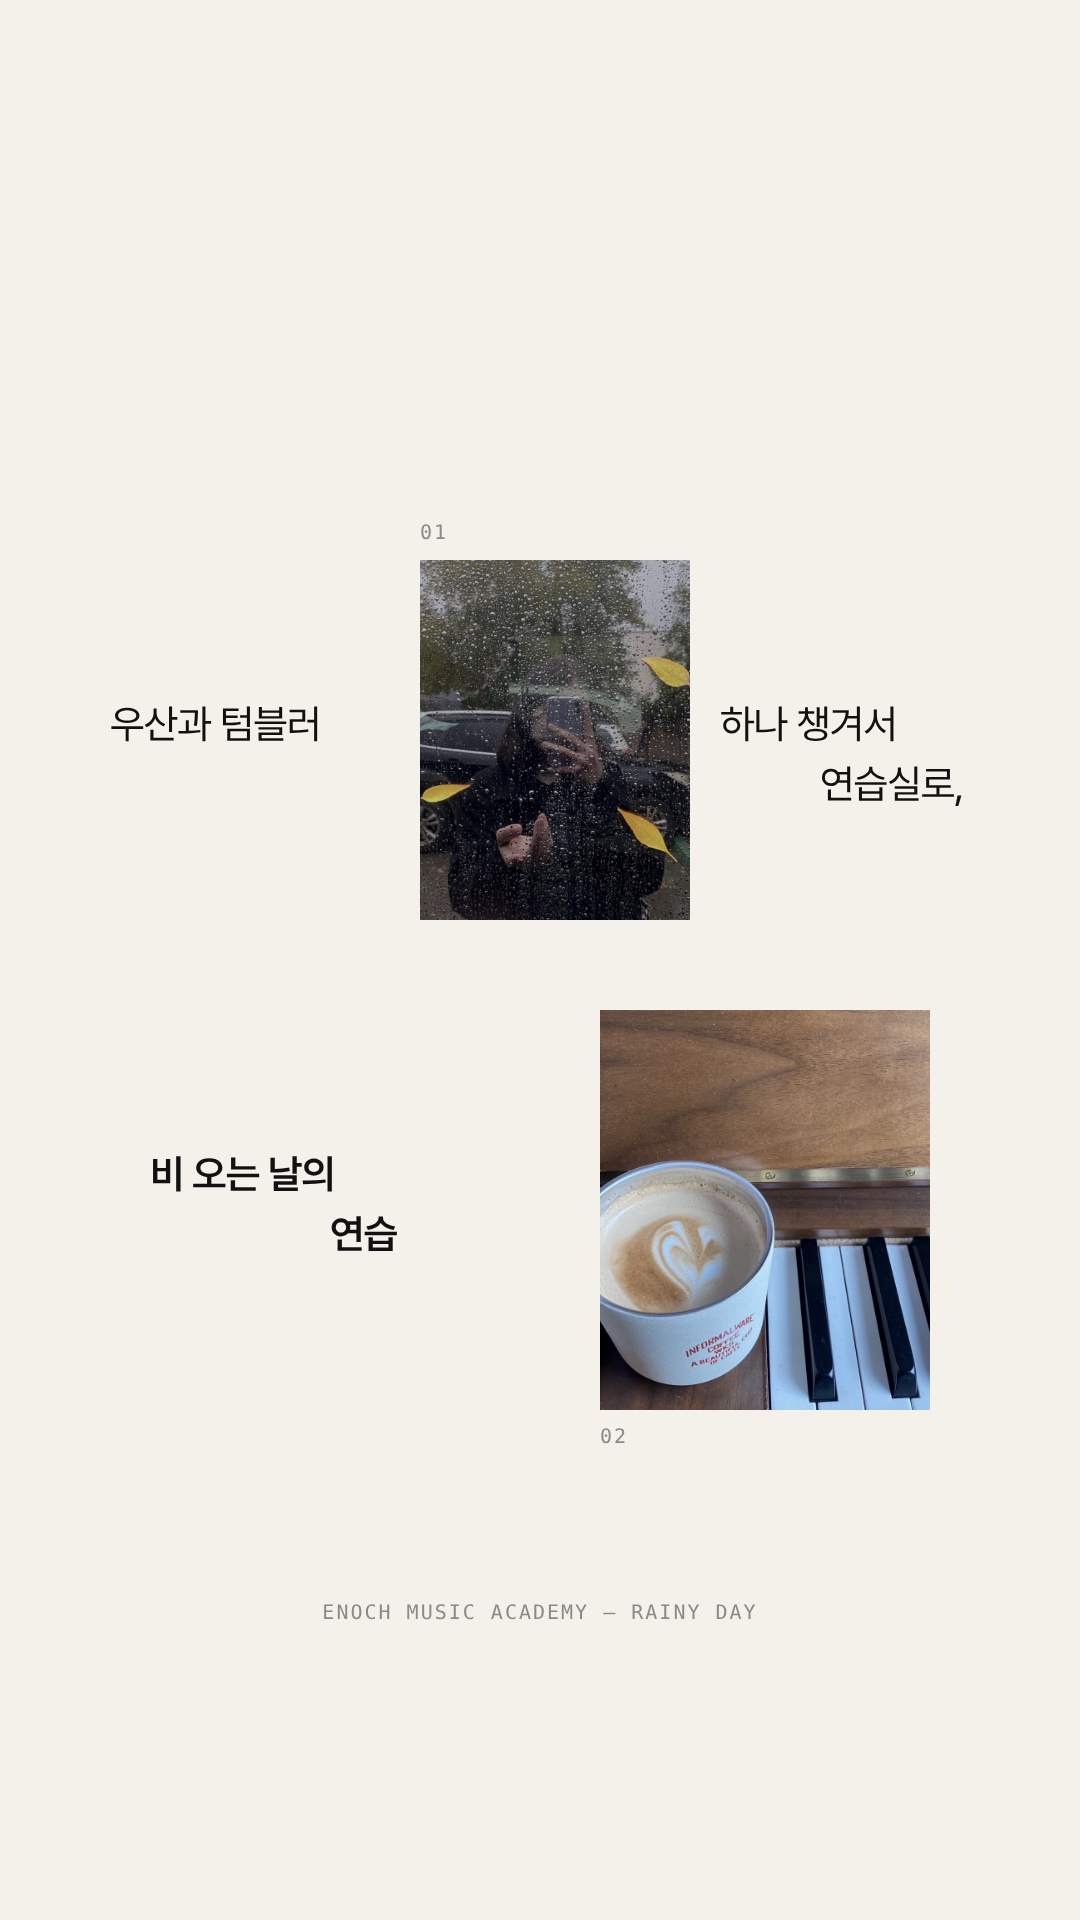
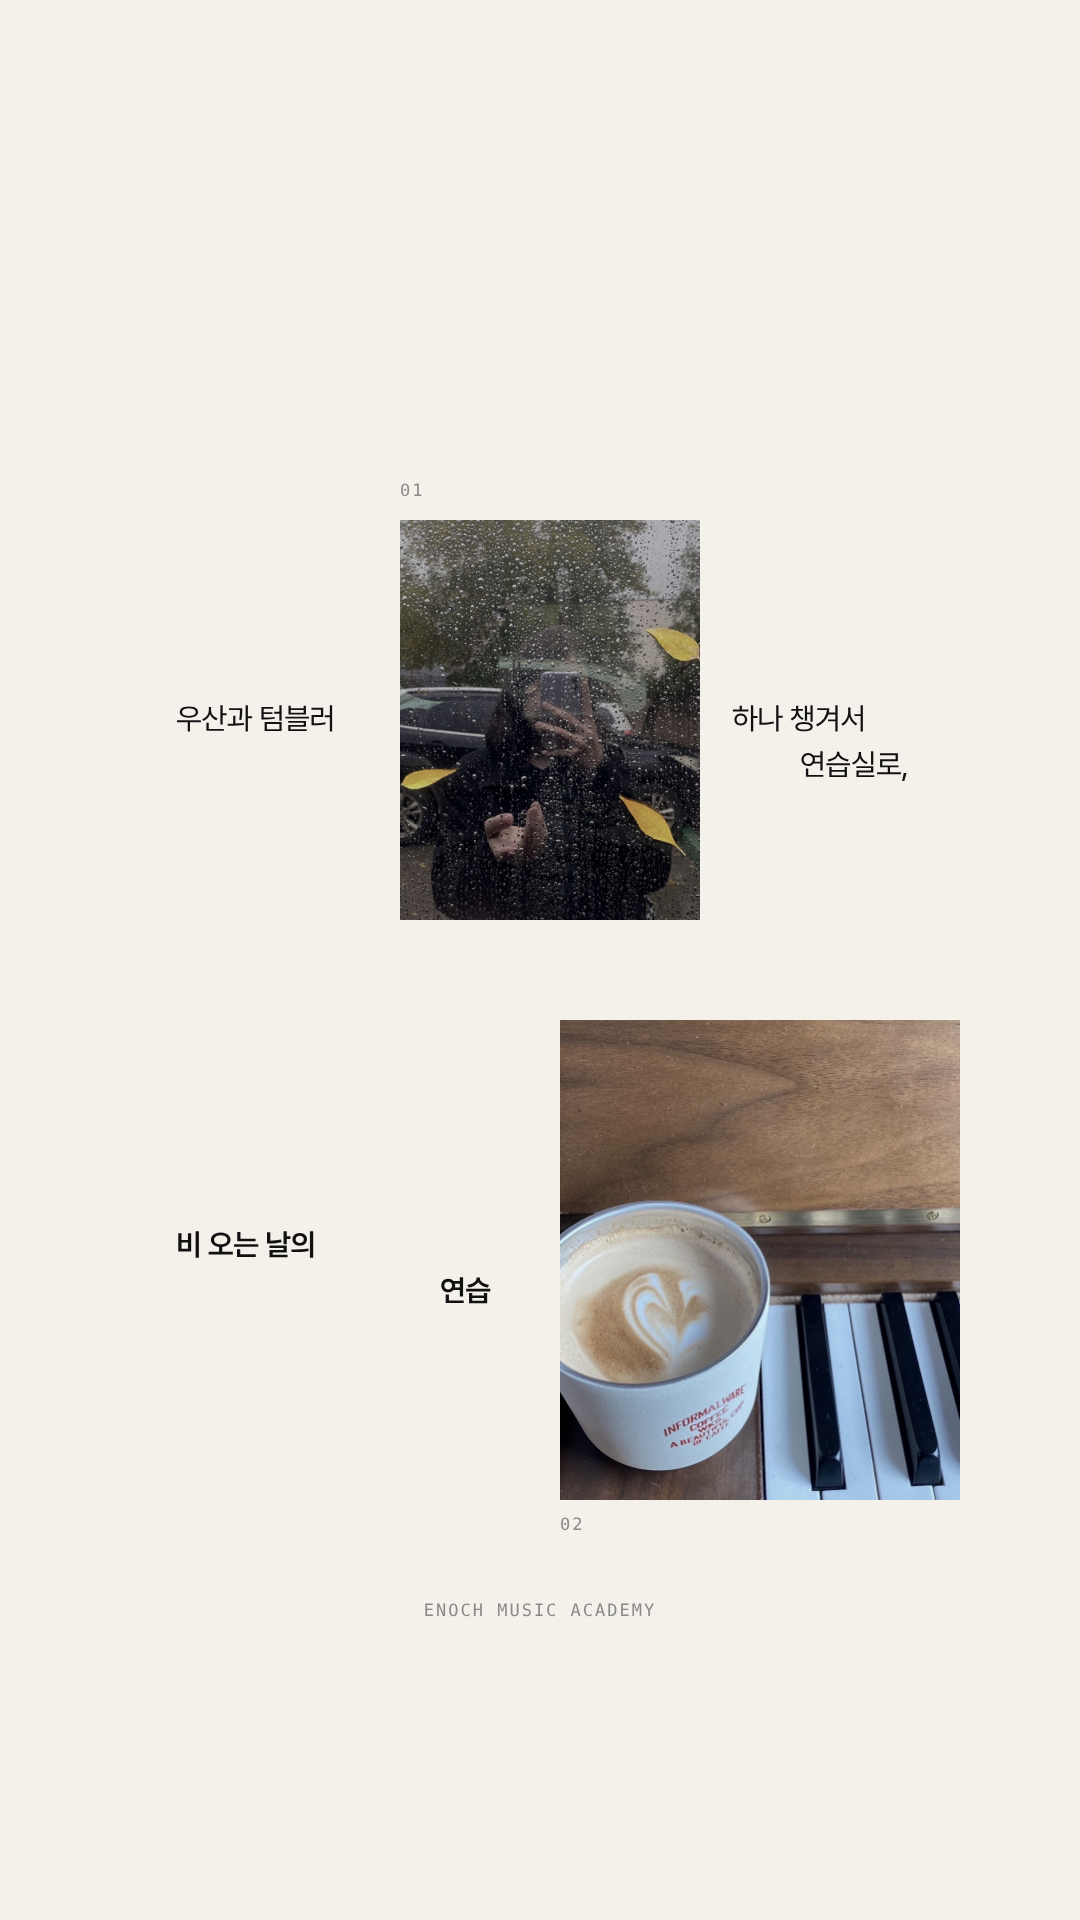
스토리 비 오는 날: RAINY DAY 삭제, 글씨 축소, 글을 사진 가운데 높이에 정렬, 사진 톤 통일
Claude-Session: https://claude.ai/code/session_01HGbZvgMeYrbU7mY8bwfjyb

diff --git a/output/릴스_비오는날/stories.html b/output/릴스_비오는날/stories.html
@@ -6,10 +6,10 @@ body{background:#ccc;font-family:P,sans-serif;word-break:keep-all}
 .mono{font-family:"IBM Plex Mono","DejaVu Sans Mono",monospace;letter-spacing:2px}
 section{position:relative;width:1080px;height:1920px;background:#F4F1EA;color:#111;overflow:hidden;margin-bottom:20px}
 section>div{position:absolute}
-.t{font-size:40px;font-weight:400;letter-spacing:-1px;white-space:nowrap}
+.t{font-size:30px;font-weight:400;letter-spacing:-.6px;white-space:nowrap}
 .t.b{font-weight:600}
-.lab{font-size:20px;color:#8A8A8A}
+.lab{font-size:17px;color:#8A8A8A}
 .ph{overflow:hidden;background:#E4DFD4}
-.ph img{width:100%;height:100%;object-fit:cover;display:block;filter:saturate(.82) contrast(1.02)}
-.ft{left:0;right:0;top:1600px;text-align:center;font-size:20px;color:#8A8A8A}
-</style></head><body><section><div class="t " style="left:110px;top:700px">우산과 텀블러</div><div class="lab mono" style="left:420px;top:520px">01</div><div class="ph" style="left:420px;top:560px;width:270px;height:360px"><img src="src/rain.jpg" style="object-position:50% 35%"></div><div class="t " style="left:720px;top:700px">하나 챙겨서</div><div class="t " style="left:820px;top:760px">연습실로,</div><div class="t b" style="left:150px;top:1150px">비 오는 날의</div><div class="t b" style="left:330px;top:1210px">연습</div><div class="lab mono" style="left:600px;top:1424px">02</div><div class="ph" style="left:600px;top:1010px;width:330px;height:400px"><img src="src/coffee.jpg" style="object-position:22% 50%"></div><div class="ft mono">ENOCH MUSIC ACADEMY — RAINY DAY</div></section><section><div class="t b" style="left:110px;top:680px">비 오는 날,</div><div class="lab mono" style="left:400px;top:500px">03</div><div class="ph" style="left:400px;top:540px;width:280px;height:340px"><img src="src/stage.jpg" style="object-position:50% 40%"></div><div class="t b" style="left:710px;top:680px">내 목소리에</div><div class="t b" style="left:620px;top:900px">집중하기 좋은 이유.</div><div class="t " style="left:110px;top:1110px">덜 건조한 목,</div><div class="t " style="left:110px;top:1170px">편하게 나오는 소리.</div><div class="lab mono" style="left:620px;top:1434px">04</div><div class="ph" style="left:620px;top:1040px;width:300px;height:380px"><img src="src/plant.jpg" style="object-position:22% 50%"></div><div class="t " style="left:110px;top:1330px">차분한 분위기 속</div><div class="t " style="left:180px;top:1390px">더 깊어지는 집중.</div><div class="ft mono">ENOCH MUSIC ACADEMY — RAINY DAY</div></section></body></html>
+.ph img{width:100%;height:100%;object-fit:cover;display:block;filter:saturate(.78) sepia(.08) contrast(1.02)}
+.ft{left:0;right:0;top:1600px;text-align:center;font-size:17px;color:#8A8A8A}
+</style></head><body><section><div class="t " style="left:176px;top:700px">우산과 텀블러</div><div class="lab mono" style="left:400px;top:480px">01</div><div class="ph" style="left:400px;top:520px;width:300px;height:400px"><img src="src/rain.jpg" style="object-position:50% 35%"></div><div class="t " style="left:732px;top:700px">하나 챙겨서</div><div class="t " style="left:800px;top:746px">연습실로,</div><div class="t b" style="left:176px;top:1226px">비 오는 날의</div><div class="t b" style="left:440px;top:1272px">연습</div><div class="lab mono" style="left:560px;top:1514px">02</div><div class="ph" style="left:560px;top:1020px;width:400px;height:480px"><img src="src/coffee.jpg" style="object-position:22% 50%"></div><div class="ft mono">ENOCH MUSIC ACADEMY</div></section><section><div class="t b" style="left:200px;top:676px">비 오는 날,</div><div class="lab mono" style="left:400px;top:460px">03</div><div class="ph" style="left:400px;top:500px;width:300px;height:380px"><img src="src/stage.jpg" style="object-position:50% 40%"></div><div class="t b" style="left:732px;top:652px">내 목소리에</div><div class="t b" style="left:732px;top:698px">집중하기 좋은 이유.</div><div class="t " style="left:176px;top:1140px">덜 건조한 목,</div><div class="t " style="left:176px;top:1186px">편하게 나오는 소리.</div><div class="lab mono" style="left:620px;top:1454px">04</div><div class="ph" style="left:620px;top:1000px;width:340px;height:440px"><img src="src/plant.jpg" style="object-position:22% 50%"></div><div class="t " style="left:236px;top:1296px">차분한 분위기 속</div><div class="t " style="left:296px;top:1342px">더 깊어지는 집중.</div><div class="ft mono">ENOCH MUSIC ACADEMY</div></section></body></html>

diff --git a/output/릴스_비오는날/stories.py b/output/릴스_비오는날/stories.py
@@ -14,16 +14,17 @@ def photo(n, src, x, y, w, h, pos, below=False):
             f'<div class="ph" style="left:{x}px;top:{y}px;width:{w}px;height:{h}px"><img src="src/{src}.jpg" style="object-position:{pos}"></div>')
 
 
-FOOT = '<div class="ft mono">ENOCH MUSIC ACADEMY — RAINY DAY</div>'
+FOOT = '<div class="ft mono">ENOCH MUSIC ACADEMY</div>'
 
+# 글은 사진의 세로 가운데에 맞추고, 둘째 줄은 레퍼런스처럼 조금씩 밀어 흐름을 만든다
 S = [
-    # 1: 우산과 텀블러 (비 오는 창문) 하나 챙겨서 / 연습실로, — 비 오는 날의 연습 (피아노 위 텀블러)
-    t('우산과 텀블러', 110, 700) + photo(1, 'rain', 420, 560, 270, 360, '50% 35%') + t('하나 챙겨서', 720, 700) + t('연습실로,', 820, 760)
-    + t('비 오는 날의', 150, 1150, 'b') + t('연습', 330, 1210, 'b') + photo(2, 'coffee', 600, 1010, 330, 400, '22% 50%', below=True) + FOOT,
+    # 1: 우산과 텀블러 (비 오는 창문) 하나 챙겨서 / 연습실로, — 비 오는 날의 / 연습 (피아노 위 텀블러)
+    t('우산과 텀블러', 176, 700) + photo(1, 'rain', 400, 520, 300, 400, '50% 35%') + t('하나 챙겨서', 732, 700) + t('연습실로,', 800, 746)
+    + t('비 오는 날의', 176, 1226, 'b') + t('연습', 440, 1272, 'b') + photo(2, 'coffee', 560, 1020, 400, 480, '22% 50%', below=True) + FOOT,
     # 2: 비 오는 날, (무대) 내 목소리에 / 집중하기 좋은 이유. — 덜 건조한 목 … 차분한 분위기 … (창가 식물)  [명사형 끝맺음]
-    t('비 오는 날,', 110, 680, 'b') + photo(3, 'stage', 400, 540, 280, 340, '50% 40%') + t('내 목소리에', 710, 680, 'b') + t('집중하기 좋은 이유.', 620, 900, 'b')
-    + t('덜 건조한 목,', 110, 1110) + t('편하게 나오는 소리.', 110, 1170) + photo(4, 'plant', 620, 1040, 300, 380, '22% 50%', below=True)
-    + t('차분한 분위기 속', 110, 1330) + t('더 깊어지는 집중.', 180, 1390) + FOOT,
+    t('비 오는 날,', 200, 676, 'b') + photo(3, 'stage', 400, 500, 300, 380, '50% 40%') + t('내 목소리에', 732, 652, 'b') + t('집중하기 좋은 이유.', 732, 698, 'b')
+    + t('덜 건조한 목,', 176, 1140) + t('편하게 나오는 소리.', 176, 1186) + photo(4, 'plant', 620, 1000, 340, 440, '22% 50%', below=True)
+    + t('차분한 분위기 속', 236, 1296) + t('더 깊어지는 집중.', 296, 1342) + FOOT,
 ]
 
 html = f'''<!doctype html><html lang="ko"><head><meta charset="utf-8"><title>stories</title><style>
@@ -34,12 +35,12 @@ body{{background:#ccc;font-family:P,sans-serif;word-break:keep-all}}
 .mono{{font-family:"IBM Plex Mono","DejaVu Sans Mono",monospace;letter-spacing:2px}}
 section{{position:relative;width:1080px;height:1920px;background:#F4F1EA;color:#111;overflow:hidden;margin-bottom:20px}}
 section>div{{position:absolute}}
-.t{{font-size:40px;font-weight:400;letter-spacing:-1px;white-space:nowrap}}
+.t{{font-size:30px;font-weight:400;letter-spacing:-.6px;white-space:nowrap}}
 .t.b{{font-weight:600}}
-.lab{{font-size:20px;color:#8A8A8A}}
+.lab{{font-size:17px;color:#8A8A8A}}
 .ph{{overflow:hidden;background:#E4DFD4}}
-.ph img{{width:100%;height:100%;object-fit:cover;display:block;filter:saturate(.82) contrast(1.02)}}
-.ft{{left:0;right:0;top:1600px;text-align:center;font-size:20px;color:#8A8A8A}}
+.ph img{{width:100%;height:100%;object-fit:cover;display:block;filter:saturate(.78) sepia(.08) contrast(1.02)}}
+.ft{{left:0;right:0;top:1600px;text-align:center;font-size:17px;color:#8A8A8A}}
 </style></head><body>{''.join(f'<section>{s}</section>' for s in S)}</body></html>'''
 open(os.path.join(HERE, 'stories.html'), 'w', encoding='utf-8').write(html)
 print('stories.html')
